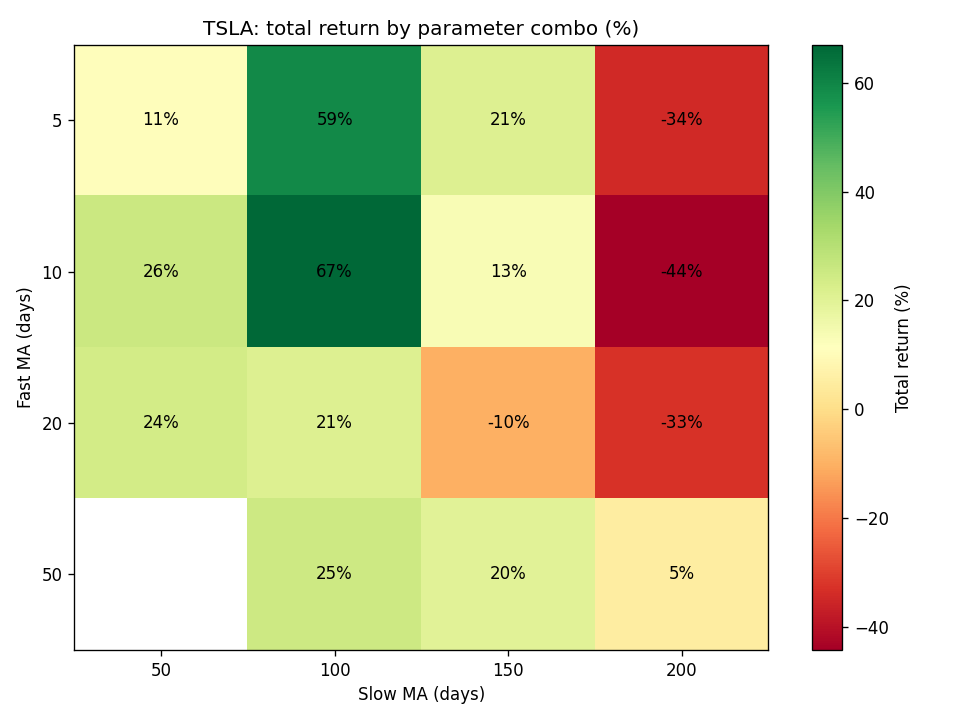
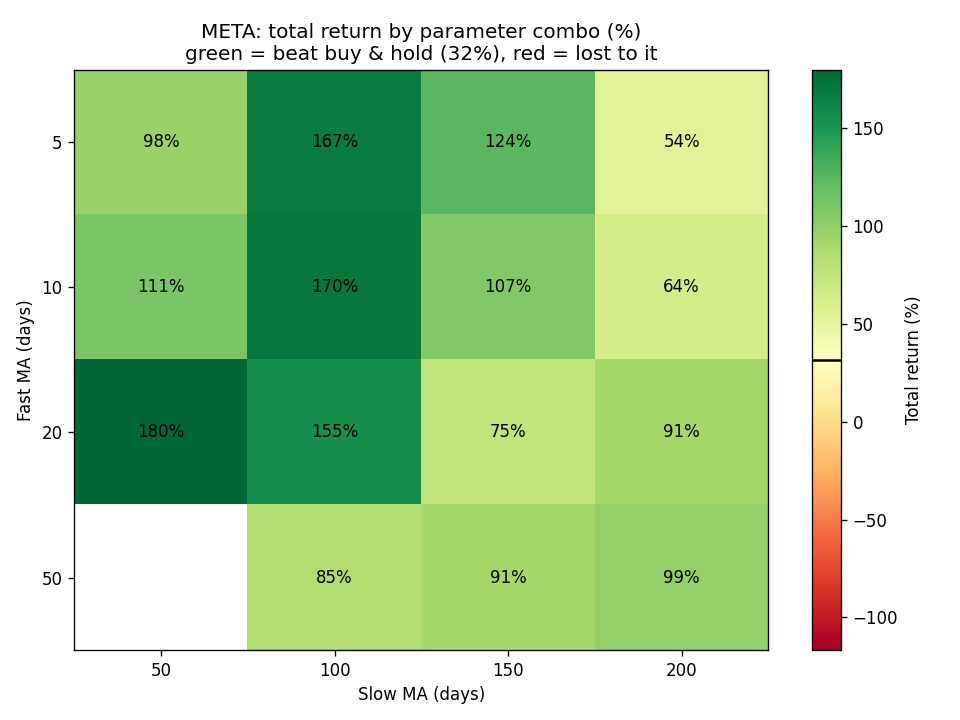
Showcase META in the README: where the strategy works and where it doesn't
META 2021-2023 (crash and recovery): the 20/50 crossover returns +180% vs
+32% for buy-and-hold, and all 15 sweep combos beat it. META 2023-2026
(steady climb): none of the 15 do. Regenerate the example charts from
these runs and document OPEN_CHARTS and --no-open.

diff --git a/README.md b/README.md
@@ -7,7 +7,7 @@
 ![pandas](https://img.shields.io/badge/pandas-yfinance-150458)
 [![License: MIT](https://img.shields.io/badge/license-MIT-green)](LICENSE)
 
-![Example run on TSLA](docs/example_results.png)
+![20/50-day crossover on META, 2021–2023: the strategy sidesteps the 2022 crash and ends at +180% vs +32% for buy-and-hold](docs/example_results.png)
 
 ## About
 
@@ -18,8 +18,10 @@ holding.
 The strategy never deals in fixed dollar amounts; everything is a fraction of
 the account, so the results are percentages that apply to any starting balance.
 On trending large-caps it usually loses to buy-and-hold: it trades on noise,
-pays a fee each time, and sits in cash through part of the climb. Seeing that
-for myself was the point.
+pays a fee each time, and sits in cash through part of the climb. Where it does
+win is a long crash followed by a recovery — see
+[where it works, and where it doesn't](#where-it-works-and-where-it-doesnt).
+Seeing both for myself was the point.
 
 The one thing the code is careful about is lookahead bias — the trading signal
 is shifted a day before returns are applied, so the strategy can only act on
@@ -31,6 +33,58 @@ the previous day's close. An earlier version checked the same day's close, which
 let a stop-loss "see" a drop and dodge it. On MSFT 2019–2024 that bug turned a
 46% return into an apparent 129%. The test suite now rewrites future prices and
 checks that no earlier trading decision changes.
+
+## Where it works, and where it doesn't
+
+A crossover strategy is a bet on long trends. It shines when a stock crashes and
+recovers, and falls behind when a stock just keeps climbing. The same stock shows
+both.
+
+### Where it works: META, 2021–2023
+
+    python backtest.py --ticker META --start 2021-01-01 --end 2023-12-31 --short 20 --long 50 --stop-loss 0 --take-profit 0 --mode single
+
+META fell 77% from its 2021 peak to its late-2022 low, then nearly tripled in
+2023. The 20/50-day crossover sold on the way down, sat in cash through most of
+the slide, and bought back in soon after the bottom (the chart at the top of
+this page).
+
+| META, 2021–2023 | Strategy (20/50) | Buy & hold |
+|---|---|---|
+| Total return | **+180%** | +32% |
+| Sharpe ratio | **1.29** | 0.44 |
+| Max drawdown | **−35%** | −77% |
+| Trades | 13 | — |
+
+Only 3 of its 7 round trips made money (a 43% win rate), but the wins were big
+and the losses small. With the default 5% stop-loss and 10% take-profit turned
+on, it still returns +134%.
+
+One good result could be luck, so the sweep tests all 15 fast/slow combos.
+Every one of them beats buy-and-hold, from +54% to +180%, and shifting the start
+and end dates anywhere between mid-2020 and mid-2024 still leaves 14 or 15 of the
+15 ahead.
+
+    python backtest.py --ticker META --start 2021-01-01 --end 2023-12-31 --stop-loss 0 --take-profit 0 --mode sweep
+
+![Sweep on META, 2021–2023: all 15 combos beat buy-and-hold](docs/example_sweep.png)
+
+### Where it doesn't: META, 2023–2026
+
+From January 2023 to October 2026 META climbed steadily, returning +474%. Not
+one of the 15 combos came close; the best managed +160%. With no crash to
+avoid, every exit just meant missing part of the climb.
+
+    python backtest.py --ticker META --start 2023-01-01 --end 2026-10-17 --stop-loss 0 --take-profit 0 --mode sweep
+
+![Sweep on META, 2023–2026: none of the 15 combos beat buy-and-hold](docs/example_sweep_bull.png)
+
+NVDA, MSFT, AAPL and SPY over 2023–2026 tell the same story: 0 of 15 combos beat
+buy-and-hold on any of them.
+
+The 2021–2023 window was picked *because* it has a crash and a recovery. It shows
+the kind of market the strategy is built for; it says nothing about whether the
+next crash will come.
 
 ## Why I built this
 
@@ -56,27 +110,28 @@ Open `backtest.py` and edit the settings block near the top, then run:
 | `MODE` | `"single"` to test one fast/slow combo, `"sweep"` to test many at once, or `"multi_stock"` to test several tickers |
 | `SWEEP_FAST`, `SWEEP_SLOW` | The lists of windows to try when `MODE = "sweep"` |
 | `TICKERS_TO_TEST` | The tickers to compare when `MODE = "multi_stock"` |
+| `OPEN_CHARTS` | Open the saved chart automatically when the run finishes (`True` / `False`) |
 
 Any of the main settings can also be overridden from the command line:
 
     python backtest.py --ticker NVDA --short 10 --long 30
     python backtest.py --mode sweep --stop-loss 0.05 --take-profit 0
+    python backtest.py --no-open        # don't open the chart when done
     python backtest.py --help
 
 Settings that don't make sense (a short window that isn't shorter than the long
 one, negative fees, a start date after the end date, an unknown mode) are
 rejected with a clear message.
 
-**Single mode** prints a results summary in the terminal and saves
+**Single mode** prints a results summary in the terminal and saves (and opens)
 `results.png` — a two-panel chart showing the price with both moving averages
 and every buy/sell mark, plus the strategy's equity curve next to buy-and-hold.
 
 **Sweep mode** tests every combination of `SWEEP_FAST` and `SWEEP_SLOW`, prints
 a table ranked by return with a buy-and-hold row for comparison, and saves
-`sweep.png` — a heatmap where greener cells mean better returns, so you can see
-at a glance whether a combo's success is a real pattern or a lucky coincidence.
-
-![Example parameter sweep on TSLA](docs/example_sweep.png)
+`sweep.png` — a heatmap whose colors are centered on buy-and-hold: green cells
+beat it, red cells lost to it. A green cluster suggests a real pattern; one lone
+green cell is more likely luck. (See the two META heatmaps above.)
 
 **Multi-stock mode** runs the same settings on every ticker in
 `TICKERS_TO_TEST` and ranks them, to check whether a result holds up beyond one
